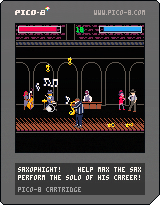
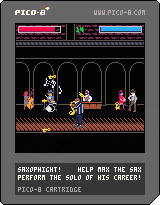
Message shortening to prevent overlaps

diff --git a/saxophight.js b/saxophight.js
@@ -66,16 +66,16 @@ var _cdpos=0; var _cartdat=[
 0,0,0,0,0,0,0,0,0,0,0,0,0,0,0,0,1,16,0,0,164,42,164,88,164,10,164,88,0,0,0,0,0,0,0,0,161,10,161,88,161,10,161,88,0,0,0,0,0,0,0,0,160,42,160,88,160,10,160,88,0,0,0,0,0,0,0,0,154,10,154,88,152,42,152,88,0,0,0,0,0,0,0,0,1,16,0,0,0,0,0,0,0,0,0,0,0,0,0,0,0,0,0,0,0,0,0,0,0,0,0,0,0,0,0,0,0,0,0,0,0,0,0,0,0,0,0,0,0,0,0,0,0,0,0,0,0,0,0,0,0,0,0,0,0,0,0,0,0,0,0,0,0,16,0,0,0,0,0,0,0,0,0,0,0,0,0,0,0,0,0,0,0,0,0,0,0,0,0,0,0,0,0,0,0,0,0,0,0,0,0,0,0,0,0,0,0,0,0,0,0,0,0,0,0,0,0,0,0,0,0,0,0,0,0,0,0,0,0,0,0,16,0,0,0,0,0,0,0,0,0,0,0,0,0,0,0,0,0,0,0,0,0,0,0,0,0,0,0,0,0,0,0,0,0,0,
 0,0,0,0,0,0,0,0,0,0,0,0,0,0,0,0,0,0,0,0,0,0,0,0,0,0,0,0,0,0,0,0,0,16,0,0,0,0,0,0,0,0,0,0,0,0,0,0,0,0,0,0,0,0,0,0,0,0,0,0,0,0,0,0,0,0,0,0,0,0,0,0,0,0,0,0,0,0,0,0,0,0,0,0,0,0,0,0,0,0,0,0,0,0,0,0,0,0,0,0,0,16,0,0,0,0,0,0,0,0,0,0,0,0,0,0,0,0,0,0,0,0,0,0,0,0,0,0,0,0,0,0,0,0,0,0,0,0,0,0,0,0,0,0,0,0,0,0,0,0,0,0,0,0,0,0,0,0,0,0,0,0,0,0,0,0,0,0,0,16,0,0,0,0,0,0,0,0,0,0,0,0,0,0,0,0,0,0,0,0,0,0,0,0,0,0,0,0,0,0,0,0,0,0,0,0,0,0,0,0,0,0,0,0,0,0,0,0,0,0,0,0,0,0,0,0,0,0,0,0,0,0,0,0,0,0,0,16,0,0,0,0,0,0,0,0,0,0,0,0,0,0,0,0,0,0,
 0,0,0,0,0,0,0,0,0,0,0,0,0,0,0,0,0,0,0,0,0,0,0,0,0,0,0,0,0,0,0,0,0,0,0,0,0,0,0,0,0,0,0,0,0,0,0,0,0,16,0,0,0,0,0,0,0,0,0,0,0,0,0,0,0,0,0,0,0,0,0,0,0,0,0,0,0,0,0,0,0,0,0,0,0,0,0,0,0,0,0,0,0,0,0,0,0,0,0,0,0,0,0,0,0,0,0,0,0,0,0,0,0,0,0,0,0,16,0,0,0,0,0,0,0,0,0,0,0,0,0,0,0,0,0,0,0,0,0,0,0,0,0,0,0,0,0,0,0,0,0,0,0,0,0,0,0,0,0,0,0,0,0,0,0,0,0,0,0,0,0,0,0,0,0,0,0,0,0,0,0,0,0,0,0,16,0,0,0,0,0,0,0,0,0,0,0,0,0,0,0,0,0,0,0,0,0,0,0,0,0,0,0,0,0,0,0,0,0,0,0,0,0,0,0,0,0,0,0,0,0,0,0,0,0,0,0,0,0,0,0,0,0,0,0,0,0,0,0,0,0,0,0,16,0,0,
-58,99,58,0,135,50,0,0,0,45,0,45,31,13,36,27,28,20,21,19,20,32,39,2,2,2,2,20,17,24,28,2,25,13,36,2,32,20,17,2,61,28,1,0,45,0,45,28,17,30,18,27,30,25,61,66,27,24,27,2,27,18,2,20,21,31,2,15,13,30,17,17,30,39,1,62,19,19,13,25,62,30,15,61,16,26,1,60,71,51,3,2,0,45,0,45,3,54,32,21,32,24,17,57,4,54,28,24,13,37,57,5,54,24,27,31,17,63,32,61,55,63,97,62,52,59,16,21,30,17,15,32,21,27,63,26,61,82,68,22,59,36,51,8,5,62,81,31,28,30,21,32,17,51,11,1,32,27,28,59,31,15,27,30,17,59,14,24,33,17,31,63,32,61,130,17,14,27,28,64,114,32,30,13,26,31,21,65,53,18,13,24,67,27,66,75,15,27,33,26,32,17,30,66,25,31,20,27,35,59,21,26,31,32,30,33,67,60,31,62,88,73,83,27,34,17,30,73,103,61,96,65,165,63,23,17,61,137,65,151,17,32,59,64,96,65,130,76,36,17,30,1,28,2,51,2,
+58,99,58,0,135,43,0,0,0,45,0,45,31,13,36,27,28,20,21,19,20,32,39,2,2,2,2,20,17,24,28,2,25,13,36,2,32,20,17,2,61,28,1,0,45,0,45,28,17,30,18,27,30,25,61,66,27,24,27,2,27,18,2,20,21,31,2,15,13,30,17,17,30,39,1,62,19,19,13,25,62,30,15,61,16,26,1,60,71,51,3,2,0,45,0,45,3,54,32,21,32,24,17,57,4,54,28,24,13,37,57,5,54,24,27,31,17,63,32,61,55,63,97,62,52,59,16,21,30,17,15,32,21,27,63,26,61,82,68,22,59,36,51,8,5,62,81,31,28,30,21,32,17,51,11,1,32,27,28,59,31,15,27,30,17,59,14,24,33,17,31,63,32,61,130,17,14,27,28,64,114,32,30,13,26,31,21,65,53,18,13,24,67,27,66,75,15,27,33,26,32,17,30,66,25,31,20,27,35,59,21,26,31,32,30,33,67,60,31,62,88,73,83,27,34,17,30,73,103,61,96,65,165,63,23,17,61,137,65,151,17,32,59,64,96,65,130,76,36,17,30,1,28,2,51,2,
 44,45,1,28,56,74,32,16,36,60,30,5,60,29,36,69,22,24,59,24,59,14,69,28,16,62,34,9,57,3,45,80,19,24,27,35,68,20,61,70,84,22,2,20,2,62,24,24,21,31,78,25,63,118,33,63,134,4,8,57,12,63,39,33,28,87,22,63,247,63,103,68,74,68,24,72,49,28,56,92,20,69,21,3,1,1,31,28,13,35,26,70,64,60,59,56,69,47,44,10,5,57,5,6,4,61,99,37,72,32,7,11,57,4,4,12,45,1,84,50,83,22,13,32,73,22,4,5,91,20,18,30,92,28,31,2,67,63,61,39,42,10,8,2,14,28,25,43,1,85,59,62,107,12,62,250,62,26,4,8,3,62,75,19,78,19,56,4,8,96,18,19,30,13,34,21,32,37,2,13,15,15,17,24,17,30,13,94,33,2,42,28,21,36,17,24,31,52,66,59,0,94,5,43,1,80,58,69,40,10,99,21,89,26,25,21,26,13,24,2,34,17,24,57,2,28,30,17,34,17,26,32,31,2,19,27,21,26,19,105,22,30,27,33,19,20,2,11,36,11,2,32,21,24,17,1,
 15,103,26,30,13,59,16,17,102,17,85,25,7,104,46,25,33,31,21,15,2,31,32,33,18,18,74,81,15,20,27,30,16,31,82,49,57,4,57,60,36,7,57,7,60,58,8,60,56,8,61,86,61,232,79,21,78,82,13,31,31,59,28,27,64,147,5,64,89,3,60,92,61,32,60,76,3,61,20,3,60,56,60,44,61,224,63,42,85,16,63,58,62,104,63,34,64,198,64,192,61,164,66,142,67,102,66,74,60,140,68,108,61,200,70,118,91,21,88,58,77,164,72,45,76,42,76,76,5,77,48,73,101,61,232,64,113,77,196,67,228,68,136,71,170,70,74,72,174,61,130,80,134,63,254,82,176,82,136,77,140,66,240,67,176,79,200,65,160,77,116,142,24,33,26,24,27,15,23,13,14,24,17,31,1,145,22,121,33,27,30,95,53,126,40,57,132,50,60,70,60,172,45,1,25,31,19,59,101,24,17,132,29,24,98,69,8,93,21,3,92,19,60,20,6,60,24,7,61,16,9,61,16,11,61,20,61,24,95,18,5,62,34,8,60,47,61,36,5,62,29,68,50,115,25,31,
-13,19,67,31,98,63,65,24,103,51,1,2,0,34,23,17,17,28,2,21,32,2,33,28,57,153,45,39,0,34,57,61,21,18,17,17,24,154,55,19,30,27,138,26,61,52,35,27,27,61,77,32,20,13,32,0,39,31,63,20,62,76,64,49,61,36,2,18,133,18,64,149,31,35,113,39,62,103,14,134,31,62,71,111,17,26,0,34,1,45,1,16,30,33,25,68,170,20,27,32,2,24,21,15,23,31,68,249,163,16,30,20,37,32,20,25,67,129,71,18,25,27,34,21,26,0,39,71,48,37,27,33,0,39,30,17,2,23,21,140,16,26,0,39,69,123,165,19,21,16,67,78,30,17,13,23,74,39,16,27,35,26,74,153,30,169,46,2,27,26,39,69,33,14,13,30,77,170,75,60,66,98,16,21,72,139,16,30,21,26,23,76,18,131,16,25,17,79,150,27,20,2,37,17,13,20,78,165,35,77,40,21,0,39,174,18,13,24,23,69,43,13,152,22,32,82,52,25,20,25,73,64,31,153,40,132,38,27,16,84,51,84,50,19,17,70,76,85,64,22,13,25,135,25,68,90,
-27,26,0,39,32,132,19,27,28,71,53,68,61,89,161,84,59,15,60,36,13,26,2,83,38,89,67,69,42,85,152,79,106,69,44,90,46,79,71,90,73,20,27,13,92,71,186,24,64,37,79,28,24,24,37,2,35,13,21,24,89,89,13,26,23,37,79,51,92,27,88,179,93,58,27,18,18,2,32,27,2,85,21,96,61,26,21,15,17,95,90,27,17,76,25,28,28,87,23,66,81,27,35,96,26,192,47,147,18,24,148,73,0,63,80,76,30,26,21,32,107,22,27,19,21,15,13,24,68,111,99,23,19,94,22,31,27,193,20,147,25,28,31,101,74,21,24,16,88,64,144,26,20,21,69,178,27,27,18,56,56,56,85,79,33,15,76,98,32,153,18,21,26,2,23,17,37,107,149,35,13,32,15,20,201,29,196,25,161,37,21,16,157,29,189,27,106,150,88,44,107,86,4,2,5,2,6,2,7,104,120,67,215,87,47,14,13,15,99,19,26,206,79,108,44,81,85,25,25,69,98,30,161,27,36,115,151,17,30,30,70,109,186,45,15,17,64,52,113,163,71,41,18,27,15,33,
-31,17,75,50,195,122,121,145,24,17,117,46,32,13,23,17,121,39,18,30,27,213,79,95,48,119,63,61,42,18,21,121,86,96,78,117,61,112,21,30,62,39,118,79,71,45,88,21,218,44,20,17,13,112,70,35,17,0,39,86,22,14,61,34,114,30,93,21,2,35,17,17,23,101,166,28,24,128,27,22,33,31,32,108,26,126,80,208,24,2,0,39,107,38,2,13,26,27,223,27,30,2,178,24,26,16,90,71,32,33,26,17,131,27,128,64,227,16,70,130,13,2,16,133,42,119,41,32,20,126,47,1,18,77,18,186,53,213,23,21,32,42,43,1,224,23,121,23,16,227,18,183,23,219,55,2,16,13,32,13,57,2,210,21,2,147,67,31,1,228,44,32,61,39,42,0,34,233,128,0,34,63,29,222,220,211,27,16,115,21,42,3,61,203,223,37,61,107,4,67,19,21,105,43,63,201,49,51,2,147,16,237,38,26,1,2,0,9,153,143,46,5,47,208,104,2,17,26,16,63,252,63,92,151,39,63,93,241,38,63,109,7,63,253,69,247,67,185,63,172,6,67,249,73,243,67,
-249,71,118,8,71,214,1,2,203,53,42,10,43,1,72,38,251,22,165,16,133,30,157,63,249,45,227,44,89,187,251,86,59,25,27,16,17,51,3,54,244,59,61,180,4,54,244,61,89,130,65,50,42,63,117,89,91,88,39,13,2,24,157,23,27,18,211,20,13,32,80,25,96,19,86,60,238,23,2,31,164,25,246,29,60,94,32,28,32,252,25,230,21,61,111,247,26,25,28,17,218,16,62,78,121,147,64,80,250,93,234,48,143,18,218,62,18,240,19,166,25,66,65,66,45,253,99,232,37,96,29,218,46,61,195,32,30,21,28,115,20,59,18,24,13,229,45,254,70,2,13,30,25,102,23,92,112,112,35,59,26,27,247,47,62,81,251,35,59,31,26,13,167,23,61,196,20,21,176,44,64,121,62,51,68,149,70,27,23,174,21,61,194,63,52,62,197,26,17,35,59,195,71,69,133,187,103,79,28,251,42,21,51,230,21,173,18,99,25,189,33,46,21,103,32,81,41,60,111,56,32,17,36,247,46,0,34,0,34,61,148,79,182,105,56,132,166,59,115,44,76,118,118,35,20,33,
-62,83,234,21,21,242,47,71,66,161,20,32,20,241,39,83,28,122,69,60,93,121,39,77,45,254,22,122,40,21,13,24,21,38,249,61,79,20,56,36,84,39,5,86,31,28,56,249,37,4,4,5,61,38,16,61,39,61,53,250,59,60,74,61,149,21,87,94,28,56,96,54,91,33,252,30,3,54,156,24,26,16,57,4,54,30,33,26,57,5,54,22,94,31,66,36,18,30,105,38,62,68,13,26,21,25,67,61,144,25,252,31,64,51,28,30,21,64,116,62,128,171,21,131,23,70,36,64,40,59,110,68,92,95,134,25,93,62,110,42,66,38,163,41,177,22,24,17,13,92,58,56,221,49,252,32,3,57,12,45,79,35,27,30,21,38,27,163,46,102,20,201,19,31,139,38,14,27,36,75,55,62,140,6,3,62,45,155,31,32,174,36,62,235,90,132,105,91,16,162,30,37,90,79,15,51,90,55,15,81,48,81,22,0,45,9,108,18,60,31,81,36,81,26,0,45,12,9,62,37,109,162,93,77,15,125,116,0,45,0,45,143,54,0,45,2,34,31,157,17,251,21,0,45,31,28,
-17,15,21,18,21,62,19,142,20,120,140,2,51,113,31,43,138,97,14,152,30,253,24,147,50,145,29,13,79,17,2,28,30,17,34,109,28,85,56,89,32,131,80,3,57,148,43,17,112,62,63,120,253,78,63,248,2,5,63,136,6,63,72,147,17,134,63,159,118,20,59,28,20,37,136,25,31,42,27,14,22,159,61,18,30,21,161,49,71,66,27,26,59,234,30,212,27,62,48,71,98,0,9,61,59,14,22,97,64,72,43,0,9,60,62,36,2,53,51,2,56,12,1,0,9,153,42,0,9,1,0,9,250,20,28,163,29,17,1,61,111,50,51,2,63,87,61,115,51,2,25,21,16,42,0,45,64,46,242,26,59,16,36,57,64,75,60,55,61,66,43,64,64,63,143,36,72,214,34,72,198,67,24,15,20,17,194,24,148,37,177,31,229,36,72,70,1,71,58,61,67,73,249,26,1,0,9,72,55,108,111,5,61,80,103,251,73,16,75,64,114,46,71,62,71,58,207,23,61,70,50,19,251,49,61,18,71,26,86,60,0,9,76,27,119,95,15,105,31,54,151,41,30,189,36,113,
-29,0,9,80,126,122,81,115,31,78,54,62,52,59,116,33,69,127,66,81,253,28,0,45,69,46,62,103,70,127,63,216,71,144,85,50,179,17,85,22,87,41,37,84,123,37,80,252,113,126,93,116,121,27,30,123,65,4,2,15,17,21,237,24,74,18,5,2,18,24,27,27,30,143,102,5,57,4,57,0,45,4,143,41,73,17,26,64,133,79,148,122,58,51,88,59,188,46,46,4,47,90,60,60,77,189,24,63,60,88,29,17,195,20,247,24,70,56,50,10,93,59,122,49,148,28,188,31,99,61,21,31,59,31,27,24,95,25,93,57,50,22,57,63,87,102,19,67,173,51,194,41,206,63,23,196,22,195,48,63,79,70,145,91,108,2,81,141,123,40,67,79,167,44,24,30,42,69,68,52,11,43,53,11,50,12,53,21,0,45,4,10,50,69,214,253,16,32,33,30,233,24,201,42,0,9,201,59,108,70,61,88,172,66,115,237,82,251,82,187,24,17,18,32,82,40,30,213,46,165,142,5,82,245,82,245,82,53,79,68,82,85,80,65,82,117,20,82,165,36,72,61,85,68,82,243,
+13,19,67,31,98,63,65,24,103,51,1,2,0,34,23,17,17,28,2,21,32,2,33,28,57,153,45,39,0,34,57,61,21,18,17,17,24,154,55,19,30,27,138,26,61,52,35,27,27,61,77,32,20,13,32,0,39,31,63,20,62,76,64,49,61,36,2,18,133,18,64,149,31,35,113,39,62,103,14,134,31,62,71,111,17,26,0,34,1,45,1,16,30,33,25,68,170,20,27,32,2,24,21,15,23,31,68,249,163,16,30,20,37,32,20,25,67,129,71,18,25,27,34,21,26,0,39,71,48,37,27,33,0,39,30,17,2,23,21,140,16,26,0,39,69,123,165,19,21,16,67,78,30,17,13,23,74,39,16,27,35,26,74,51,30,169,40,2,27,26,39,68,43,14,13,30,77,164,75,54,65,108,16,21,72,133,16,30,21,26,23,75,28,130,26,25,17,79,144,27,20,2,37,17,13,20,77,175,35,77,34,21,0,39,173,28,13,24,23,69,37,13,152,16,32,81,62,25,20,25,72,74,31,153,34,132,32,27,16,83,61,83,60,19,17,70,70,84,74,22,13,25,135,19,68,90,
+27,26,0,39,32,131,29,27,28,71,53,68,61,88,171,84,53,15,60,36,13,26,2,83,32,88,77,69,42,85,146,79,100,69,44,90,40,79,65,90,67,20,27,13,92,65,186,18,64,37,79,22,24,24,37,2,35,13,21,24,89,83,13,26,23,37,79,51,92,21,87,189,93,52,27,18,18,2,32,27,2,84,31,96,55,26,21,15,17,95,84,27,17,76,25,28,28,87,17,66,81,27,35,96,20,192,41,146,28,24,148,67,0,63,80,76,30,26,21,32,107,16,27,19,21,15,13,24,68,111,99,17,19,94,16,31,27,192,30,147,19,28,31,101,68,21,24,16,88,64,144,20,20,21,69,178,27,27,18,56,56,56,85,79,33,15,76,98,32,152,28,21,26,2,23,17,37,106,159,35,13,32,15,20,201,23,196,19,160,47,21,16,157,23,189,21,106,144,88,44,107,80,4,2,5,2,6,2,7,104,114,67,215,87,47,14,13,15,98,29,26,206,73,108,38,81,68,25,25,69,97,30,161,20,36,115,144,17,30,30,70,108,186,38,15,17,64,51,112,172,71,40,18,27,15,33,
+31,17,75,49,195,115,120,154,24,17,117,39,32,13,23,17,121,32,18,30,27,213,72,94,63,119,56,61,42,18,21,120,95,96,77,117,54,111,30,30,62,39,118,72,71,44,88,20,218,37,20,17,13,111,79,35,17,0,39,86,21,14,61,34,114,23,93,20,2,35,17,17,23,101,165,28,24,128,20,22,33,31,32,108,25,125,89,208,17,2,0,39,107,37,2,13,26,27,223,20,30,2,178,17,26,16,90,70,32,33,26,17,131,20,127,73,226,25,70,130,13,2,16,133,35,119,34,32,20,126,40,1,18,77,18,185,62,213,16,21,32,42,43,1,224,16,121,16,16,226,27,183,16,219,48,2,16,13,32,13,57,2,209,30,2,146,76,31,1,228,37,32,61,39,42,0,34,232,137,0,34,63,29,222,213,211,20,16,115,20,42,3,61,203,222,46,61,107,4,67,19,21,105,42,63,201,49,51,2,146,25,236,47,26,1,2,0,9,153,136,46,5,47,208,97,2,17,26,16,63,252,63,92,151,32,63,93,240,47,63,109,7,63,253,69,247,67,185,63,172,6,67,249,73,243,67,
+249,71,118,8,71,214,1,2,202,62,42,10,43,1,72,38,250,31,164,25,133,29,157,56,249,38,227,37,89,187,250,95,59,25,27,16,17,51,3,54,244,52,61,180,4,54,244,54,89,130,65,50,42,63,117,89,91,88,39,13,2,24,157,16,27,18,210,29,13,32,80,25,96,19,86,60,238,16,2,31,164,18,246,22,60,94,32,28,32,252,18,229,30,61,111,247,19,25,28,17,217,25,62,78,121,146,64,80,250,86,233,57,143,17,218,55,18,239,28,166,18,66,65,66,45,252,108,231,46,96,29,218,39,61,195,32,30,21,28,115,20,59,18,24,13,229,38,253,79,2,13,30,25,102,23,92,112,112,35,59,26,27,247,40,62,81,250,44,59,31,26,13,167,16,61,196,20,21,176,37,64,121,62,51,68,149,70,27,23,173,30,61,194,63,52,62,197,26,17,35,59,195,64,69,133,187,96,79,28,254,42,21,51,229,30,172,27,99,25,188,42,46,21,103,32,81,41,60,111,56,32,17,36,247,39,0,34,0,34,61,148,79,182,105,56,132,166,59,115,44,76,118,118,35,20,33,
+62,83,233,30,21,242,40,71,66,161,19,32,20,241,32,83,28,122,69,60,93,121,39,77,45,253,31,122,40,21,13,24,21,38,249,54,79,20,56,36,84,39,5,86,31,28,56,248,46,4,4,5,61,38,16,61,39,61,53,250,52,60,74,61,149,21,87,94,28,56,96,54,91,33,252,23,3,54,156,23,26,16,57,4,54,30,33,26,57,5,54,22,94,31,66,36,18,30,105,38,62,68,13,26,21,25,67,61,144,25,252,24,64,51,28,30,21,64,116,62,128,171,20,131,23,70,36,64,40,59,110,68,92,95,134,25,93,62,110,42,66,38,163,40,177,21,24,17,13,92,58,56,220,58,251,41,3,57,12,45,79,35,27,30,21,38,27,163,45,102,20,200,28,31,139,38,14,27,36,75,55,62,140,6,3,62,45,155,31,32,174,35,62,235,90,132,105,91,16,162,30,37,90,79,15,51,90,55,15,81,48,81,22,0,45,9,108,18,60,31,81,36,81,26,0,45,12,9,62,37,109,162,93,77,15,125,116,0,45,0,45,143,54,0,45,2,34,31,157,17,250,30,0,45,31,28,
+17,15,21,18,21,62,19,142,20,120,140,2,51,113,31,43,138,97,14,152,30,253,17,147,50,145,29,13,79,17,2,28,30,17,34,109,28,85,56,89,32,131,80,3,57,148,43,17,112,62,63,120,253,71,63,248,2,5,63,136,6,63,72,147,17,134,63,159,118,20,59,28,20,37,136,25,31,42,27,14,22,159,61,18,30,21,161,49,71,66,27,26,59,234,23,212,26,62,48,71,98,0,9,61,59,14,22,97,64,72,43,0,9,60,62,36,2,53,51,2,56,12,1,0,9,153,42,0,9,1,0,9,249,29,28,163,29,17,1,61,111,50,51,2,63,87,61,115,51,2,25,21,16,42,0,45,64,46,242,19,59,16,36,57,64,75,60,55,61,66,43,64,64,63,143,36,72,214,34,72,198,67,24,15,20,17,194,23,148,37,177,31,229,35,72,70,1,71,58,61,67,73,249,26,1,0,9,72,55,108,111,5,61,80,103,251,73,16,75,64,114,46,71,62,71,58,207,22,61,70,50,19,254,63,61,18,71,26,86,60,0,9,76,27,119,95,15,105,31,54,151,41,30,189,36,113,
+29,0,9,80,126,122,81,115,31,78,54,62,52,59,116,33,69,127,66,81,253,21,0,45,69,46,62,103,70,127,63,216,71,144,85,50,179,17,85,22,87,41,37,84,123,37,80,252,113,126,93,116,121,27,30,123,65,4,2,15,17,21,237,23,74,18,5,2,18,24,27,27,30,143,102,5,57,4,57,0,45,4,143,41,73,17,26,64,133,79,148,122,58,51,88,59,188,46,46,4,47,90,60,60,77,189,24,63,60,88,29,17,195,20,247,23,70,56,50,10,93,59,122,49,148,28,188,31,99,61,21,31,59,31,27,24,95,25,93,57,50,22,57,63,87,102,19,67,173,51,194,41,206,63,23,196,22,195,48,63,79,70,145,91,108,2,81,141,123,40,67,79,167,44,24,30,42,69,68,52,11,43,53,11,50,12,53,21,0,45,4,10,50,69,214,252,31,32,33,30,233,23,201,42,0,9,201,59,108,70,61,88,172,66,115,237,82,251,82,187,24,17,18,32,82,40,30,213,46,165,142,5,82,245,82,245,82,53,79,68,82,85,80,65,82,117,20,82,165,36,72,61,85,68,82,243,
 16,42,62,76,105,77,85,32,124,40,82,245,82,245,82,245,82,165,165,91,83,67,167,47,82,37,69,68,82,53,0,45,82,21,50,4,91,75,69,152,82,245,82,245,82,245,197,29,124,26,59,137,30,17,15,188,45,159,89,31,238,74,28,30,27,61,40,21,24,17,161,132,188,71,207,25,178,26,248,47,42,207,99,43,189,70,129,85,17,61,111,211,61,61,92,143,68,14,22,112,148,212,18,57,214,49,143,126,62,87,213,27,175,103,48,2,4,6,9,61,159,189,186,143,20,4,101,49,166,18,72,60,193,33,32,20,227,16,20,27,24,16,31,42,4,245,29,103,29,2,218,44,180,104,146,24,11,64,74,66,38,183,124,62,136,189,93,61,128,129,52,216,28,64,42,211,178,246,75,109,16,246,62,62,16,16,17,31,32,30,27,37,165,61,75,61,253,28,61,110,249,50,172,125,182,135,35,21,201,23,200,64,81,255,81,223,80,242,80,50,28,79,158,79,205,48,79,203,20,21,32,59,206,73,90,34,77,246,77,70,77,197,85,33,28,33,31,211,40,77,75,63,120,208,51,208,
 42,62,68,168,82,62,44,52,181,35,79,219,76,245,252,69,242,114,97,96,243,148,75,244,147,106,245,136,75,187,73,238,69,99,248,135,217,40,53,60,175,36,70,75,253,87,59,17,18,18,108,25,233,99,61,215,224,58,64,156,36,50,13,34,19,71,144,151,136,61,244,5,47,0,45,7,92,57,65,210,229,33,69,158,37,65,226,134,117,61,244,65,242,70,84,226,75,51,4,11,106,50,13,16,16,42,73,92,57,74,213,101,56,218,16,83,161,57,85,144,103,56,213,23,30,201,30,4,43,116,21,56,8,118,178,61,248,117,59,253,53,4,252,118,63,29,250,34,42,14,13,31,31,111,20,32,250,47,31,99,74,62,123,253,141,5,249,41,64,118,5,61,171,122,67,217,90,62,146,66,216,16,132,29,66,248,64,253,66,200,68,179,66,88,120,61,119,230,221,220,112,187,125,53,31,26,13,30,254,42,125,69,20,17,13,24,121,24,0,45,226,26,56,8,234,66,61,67,48,233,124,0,9,62,68,51,240,26,0,9,252,26,59,236,34,27,245,29,129,121,0,9,229,246,249,22,
 144,194,229,26,4,209,59,5,220,25,37,4,189,74,4,56,37,60,29,5,190,71,5,60,45,229,84,4,51,51,207,16,37,4,50,51,10,61,116,5,61,68,5,61,52,15,64,114,171,56,60,23,196,93,61,27,65,80,61,219,5,61,43,6,66,107,174,62,60,23,63,134,7,61,251,63,118,8,254,16,37,4,233,46,71,17,66,136,9,61,247,66,52,10,62,46,5,236,44,73,18,69,134,11,61,247,69,18,195,97,42,15,4,48,68,18,223,37,15,5,49,70,23,60,58,10,49,66,20,61,52,11,48,15,8,43,82,224,249,182,216,98,213,249,213,169,211,247,211,39,21,189,85,214,147,4,47,50,11,254,24,204,174,159,74,204,248,247,143,13,19,13,21,26,31,32,59,35,178,46,254,26,57,136,20,251,20,200,250,200,250,239,92,220,221,226,129,56,8,53,140,31,50,4,56,8,47,50,141,24,204,73,200,82,215,176,214,250,237,213,226,127,36,57,249,20,72,124,19,17,32,42,25,60,37,36,52,11,57,2,37,222,16,43,2,51,182,31,241,211,221,41,42,73,52,190,
